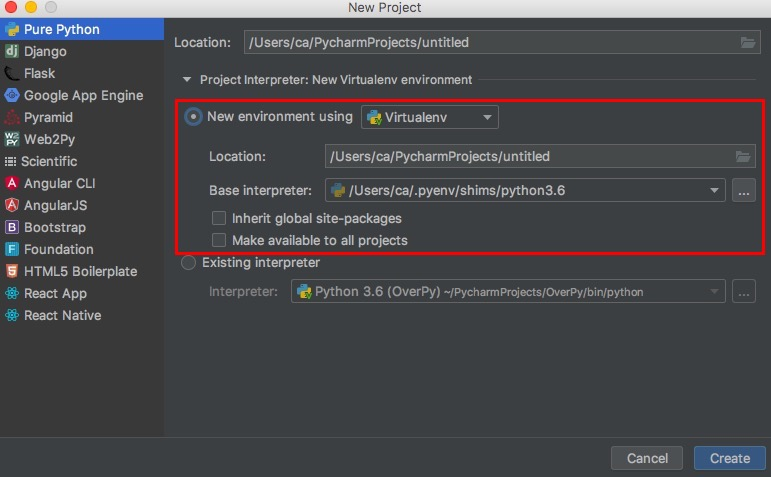
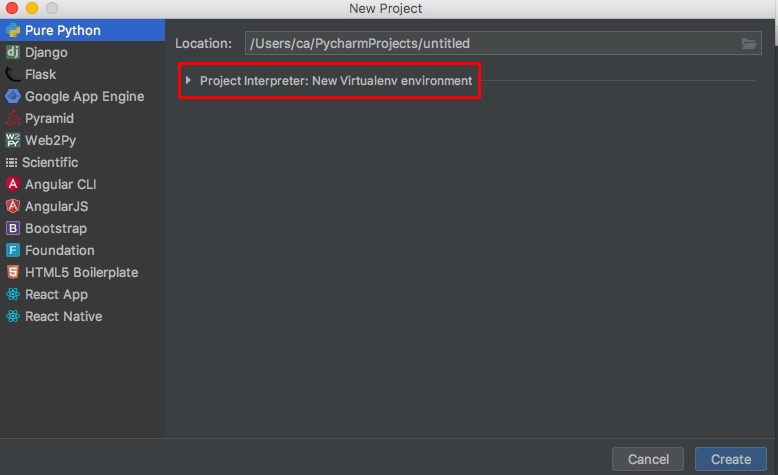
HandsOn02に画像を追加

diff --git a/doc/HandsOn02/HandsOn02.md b/doc/HandsOn02/HandsOn02.md
@@ -1,5 +1,11 @@
 ## PyCharmの設定をしよう
 
 HandsOn02では, 実際にPyCharm上でプロジェクトを作成し, HandsOn01でインストールしたPython3.6を使えるように設定します。  
-1. PyCharmを起動して下の画像の赤枠内の「Create New Project」をクリック
-![HandsOn02.md](./PyCharm01.jpg)  
+
+1. PyCharmを起動して下の画像の赤枠内の「Create New Project」をクリック  
+![PyCharm01.jpg](./PyCharm01.jpg)  
+
+![PyCharm02.jpg](./PyCharm02.jpg)
+
+![PyCharm03.jpg](./PyCharm03.jpg)  
+(この画像のPython3.6のパスはMac用のパスなのでWindowsの人は注意してください)
